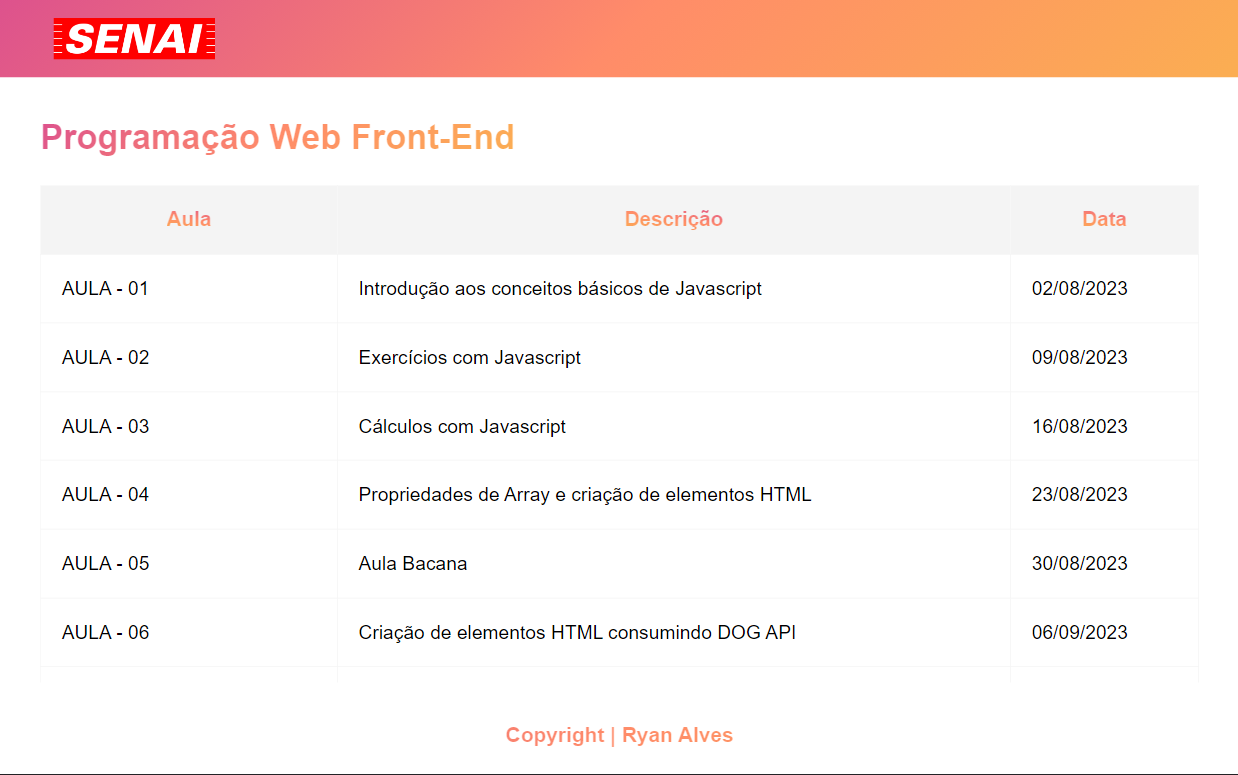
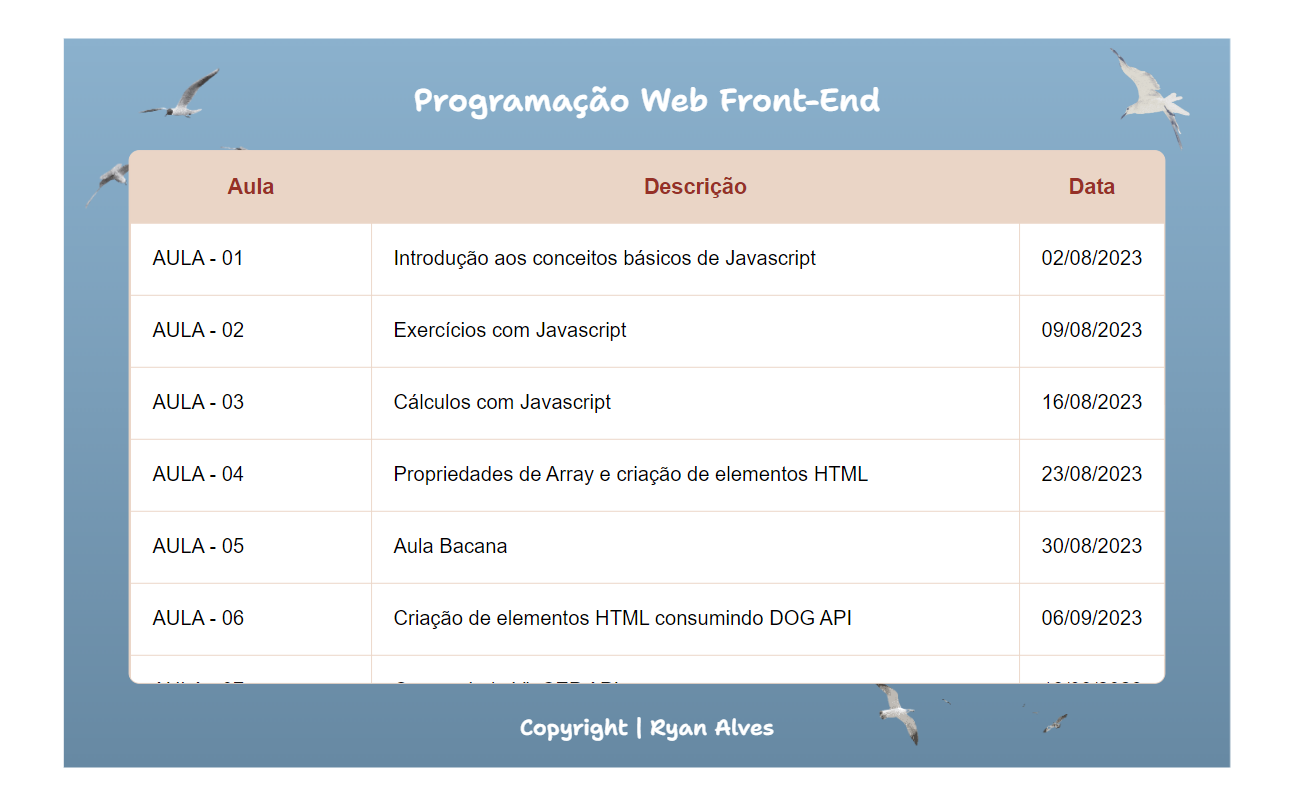
Refazendo Design

diff --git a/Main/style.css b/Main/style.css
@@ -5,86 +5,83 @@
 }
 
 :root{
-    --blue: #00003d;
-    --purple-gradient: rgba(86,14,162,1) 0%, rgba(199,141,199,1) 50%, rgba(244,105,166,1);
-    --blue-gradient: rgba(42,77,193,1) 0%, rgba(86,152,226,1) 50%, rgba(147,91,202,1);
-    --pink-gradient: rgba(221,82,141,1) 0%, rgba(255,140,105,1) 50%, rgba(251,174,82,1);
-    --font: 'Poppins', sans-serif;
+    --purple: #866475;
+    --blue: #789ac0;
+    --light-blue: #729cbb;
     --white: white;
-    --light-grey: #f4f4f4;
+    --light-grey: #ead5c6;
+    --red: #963027;
+    --font: 'Poppins', sans-serif;
+    --1989-font: 'Shantell Sans', cursive;;
 }
 
 body{
     font-family: var(--font);
     font-weight: 400;
-    display: grid;
-    grid-row: auto  ;
-    align-items: center;
-    height: 100vh;
-}
-
-header, footer{
     display: flex;
+    flex-direction: column;
+    height: 100vh;
     align-items: center;
-    height: 10vh;
+    justify-content: center;
 }
 
-header{
-    padding-inline: 4rem;
-    background: rgb(86,14,162);
-    background: linear-gradient(135deg, var(--pink-gradient) 100%);
-    color: var(--white);
-}
-
-header img{
-    height: 3rem;
+body::after{
+    content: '';
+    display: block;
+    background: linear-gradient(180deg, rgba(139,177,205,1) 0%, rgba(103,137,163,1) 100%);
+    width: 90%;
+    height: 90%;
+    position: fixed;
+    z-index: -999;
+    margin: auto;
+    inset: 0;
 }
 
 main{
-    height: 80vh;
     display: flex;
     flex-direction: column;
-    align-items: flex-start;
     width: 100%;
-    padding: 3rem 3rem 1rem 3rem;
+    padding: 3rem 10vw 0 10vw;
     gap: 32px;
+    align-items: center;
+    height: 80vh;
+}
+
+main h1, footer{
+    font-family: var(--1989-font);
+    color: var(--white);
+    text-align: center;
+}
+
+main h1{
+    font-size: 2.2rem;
 }
 
 .container-table{
+    width: 100%;
     overflow: auto;
     display: flex;
-    width: 100%;
     scroll-behavior: smooth;
+    border: solid 0.2px var(--light-grey);
+    background-color: var(--light-grey);
+    border-radius: 12px;
 }
 
 .container-table::-webkit-scrollbar{
     display: none;
 }
 
-main h1{
-    background-image: linear-gradient(135deg, var(--pink-gradient) 100%);
-    background-clip: text;
-    -webkit-background-clip: text;
-    -webkit-text-fill-color: transparent;
-    background-color: var(--blue);
-    font-size: 2.5rem;
-}
-
 table th{
-    background-color: var(--light-grey);
     font-weight: 600;
     font-size: 1.5rem;
     position: sticky;
     top: -1px;
     border: solid 0.2px var(--light-grey);
+    background-color: var(--light-grey);
 }
 
 th span{
-    background-image: linear-gradient(190deg, var(--pink-gradient) 100%);
-    background-clip: text;
-    -webkit-background-clip: text;
-    -webkit-text-fill-color: transparent;
-    background-color: var(--blue);
+    color: var(--red);
 }
 
 table{
@@ -101,6 +98,7 @@ tr > td{
     font-size: 1.4rem;
     padding: 24px;
     border: solid 0.2px var(--light-grey);
+    background-color: var(--white);
 }
 
 td *{
@@ -115,14 +113,81 @@ td a:hover{
 }
 
 footer{
+    display: flex;
+    align-items: center;
     justify-content: center;
     font-weight: 600;
     font-size: 1.3rem;
-    background-image: linear-gradient(135deg, var(--pink-gradient) 100%);
-    background-clip: text;
-    -webkit-background-clip: text;
-    -webkit-text-fill-color: transparent;
-    background-color: var(--blue);
+    width: 100%;
+    padding: 32px 0;
 }
 
+img[alt~=Gaivota]{
+    position: absolute;
+    z-index: -1;
+}
 
+#gaivota-1{
+    right: 5%;
+    top: 6%;
+    width: 180px;
+}
+
+#gaivota-2{
+    left: 5%;
+    top: 6%;
+    width: 250px;
+}
+
+#gaivota-3{
+    right: 15%;
+    bottom: 2%;
+    width: 300px;
+}
+
+@media (max-width: 762px) {
+    tr td:nth-child(2), table th:nth-child(2){
+        display: none;
+    }
+}
+
+@media (max-width: 400px) {
+    
+    main h1{
+        font-size: 1.4rem;
+    }
+
+    table th{
+        font-size: 1.2rem;
+    }
+
+    tr td:nth-child(3), table th:nth-child(3){
+        display: none;
+    }
+
+    tr td:nth-child(1), table th:nth-child(1){
+        text-align: center;
+    }
+
+    td *{
+        font-size: 1.2rem; 
+        text-decoration: none;
+        color: black;
+    }
+
+    footer{
+        font-size: 1rem;
+    }
+
+    #gaivota-1{
+        right: 0;
+        top: 10%;
+        width: 100px;
+    }
+
+    #gaivota-2{
+        left: -5%;
+        width: 200px;
+    }
+
+}

diff --git a/index.html b/index.html
@@ -4,14 +4,14 @@
     <meta charset="UTF-8">
     <meta name="viewport" content="width=device-width, initial-scale=1.0">
     <link rel="stylesheet" href="Main/style.css">
+    <link rel="preconnect" href="https://fonts.googleapis.com">
+    <link rel="preconnect" href="https://fonts.gstatic.com" crossorigin>
+    <link href="https://fonts.googleapis.com/css2?family=Shantell+Sans:wght@400;600&display=swap" rel="stylesheet">
     <script src="./Main/main.js" defer></script>
     <link rel="icon" href="./Main/img/favicon.png">
     <title>Programação Web Front-End</title>
 </head>
 <body>
-    <header>
-        <img src="./Main/img/SENAI_logo.png" alt="Logo Senai">
-    </header>
     <main>
         <h1>Programação Web Front-End</h1>
         <div class="container-table">
@@ -27,5 +27,8 @@
     <footer>
         <h3>Copyright | Ryan Alves</h3>
     </footer>
+    <img src="./Main/img/gaivota-1.png" alt="Gaivota" id="gaivota-1">
+    <img src="./Main/img/gaivota-2.png" alt="Gaivota" id="gaivota-2">
+    <img src="./Main/img/gaivota-3.png" alt="Gaivota" id="gaivota-3">
 </body>
 </html>

diff --git a/Main/main.js b/Main/main.js
@@ -54,6 +54,12 @@ const aula = [
         descricao: 'Criação de elementos a partir do Javascript',
         data: '30/08/2023',
         linkAula: './Chat/chat.html'
+    },
+    {
+        titulo: 'Atividade - Harry Potter API',
+        descricao: 'Wiki com informações sobre os personagens, poções e feitiços do universo de Harry Potter',
+        data: '13/10/2023',
+        linkAula: 'https://ryanalvesz.github.io/harry_potter/'
     }
 ]
 
